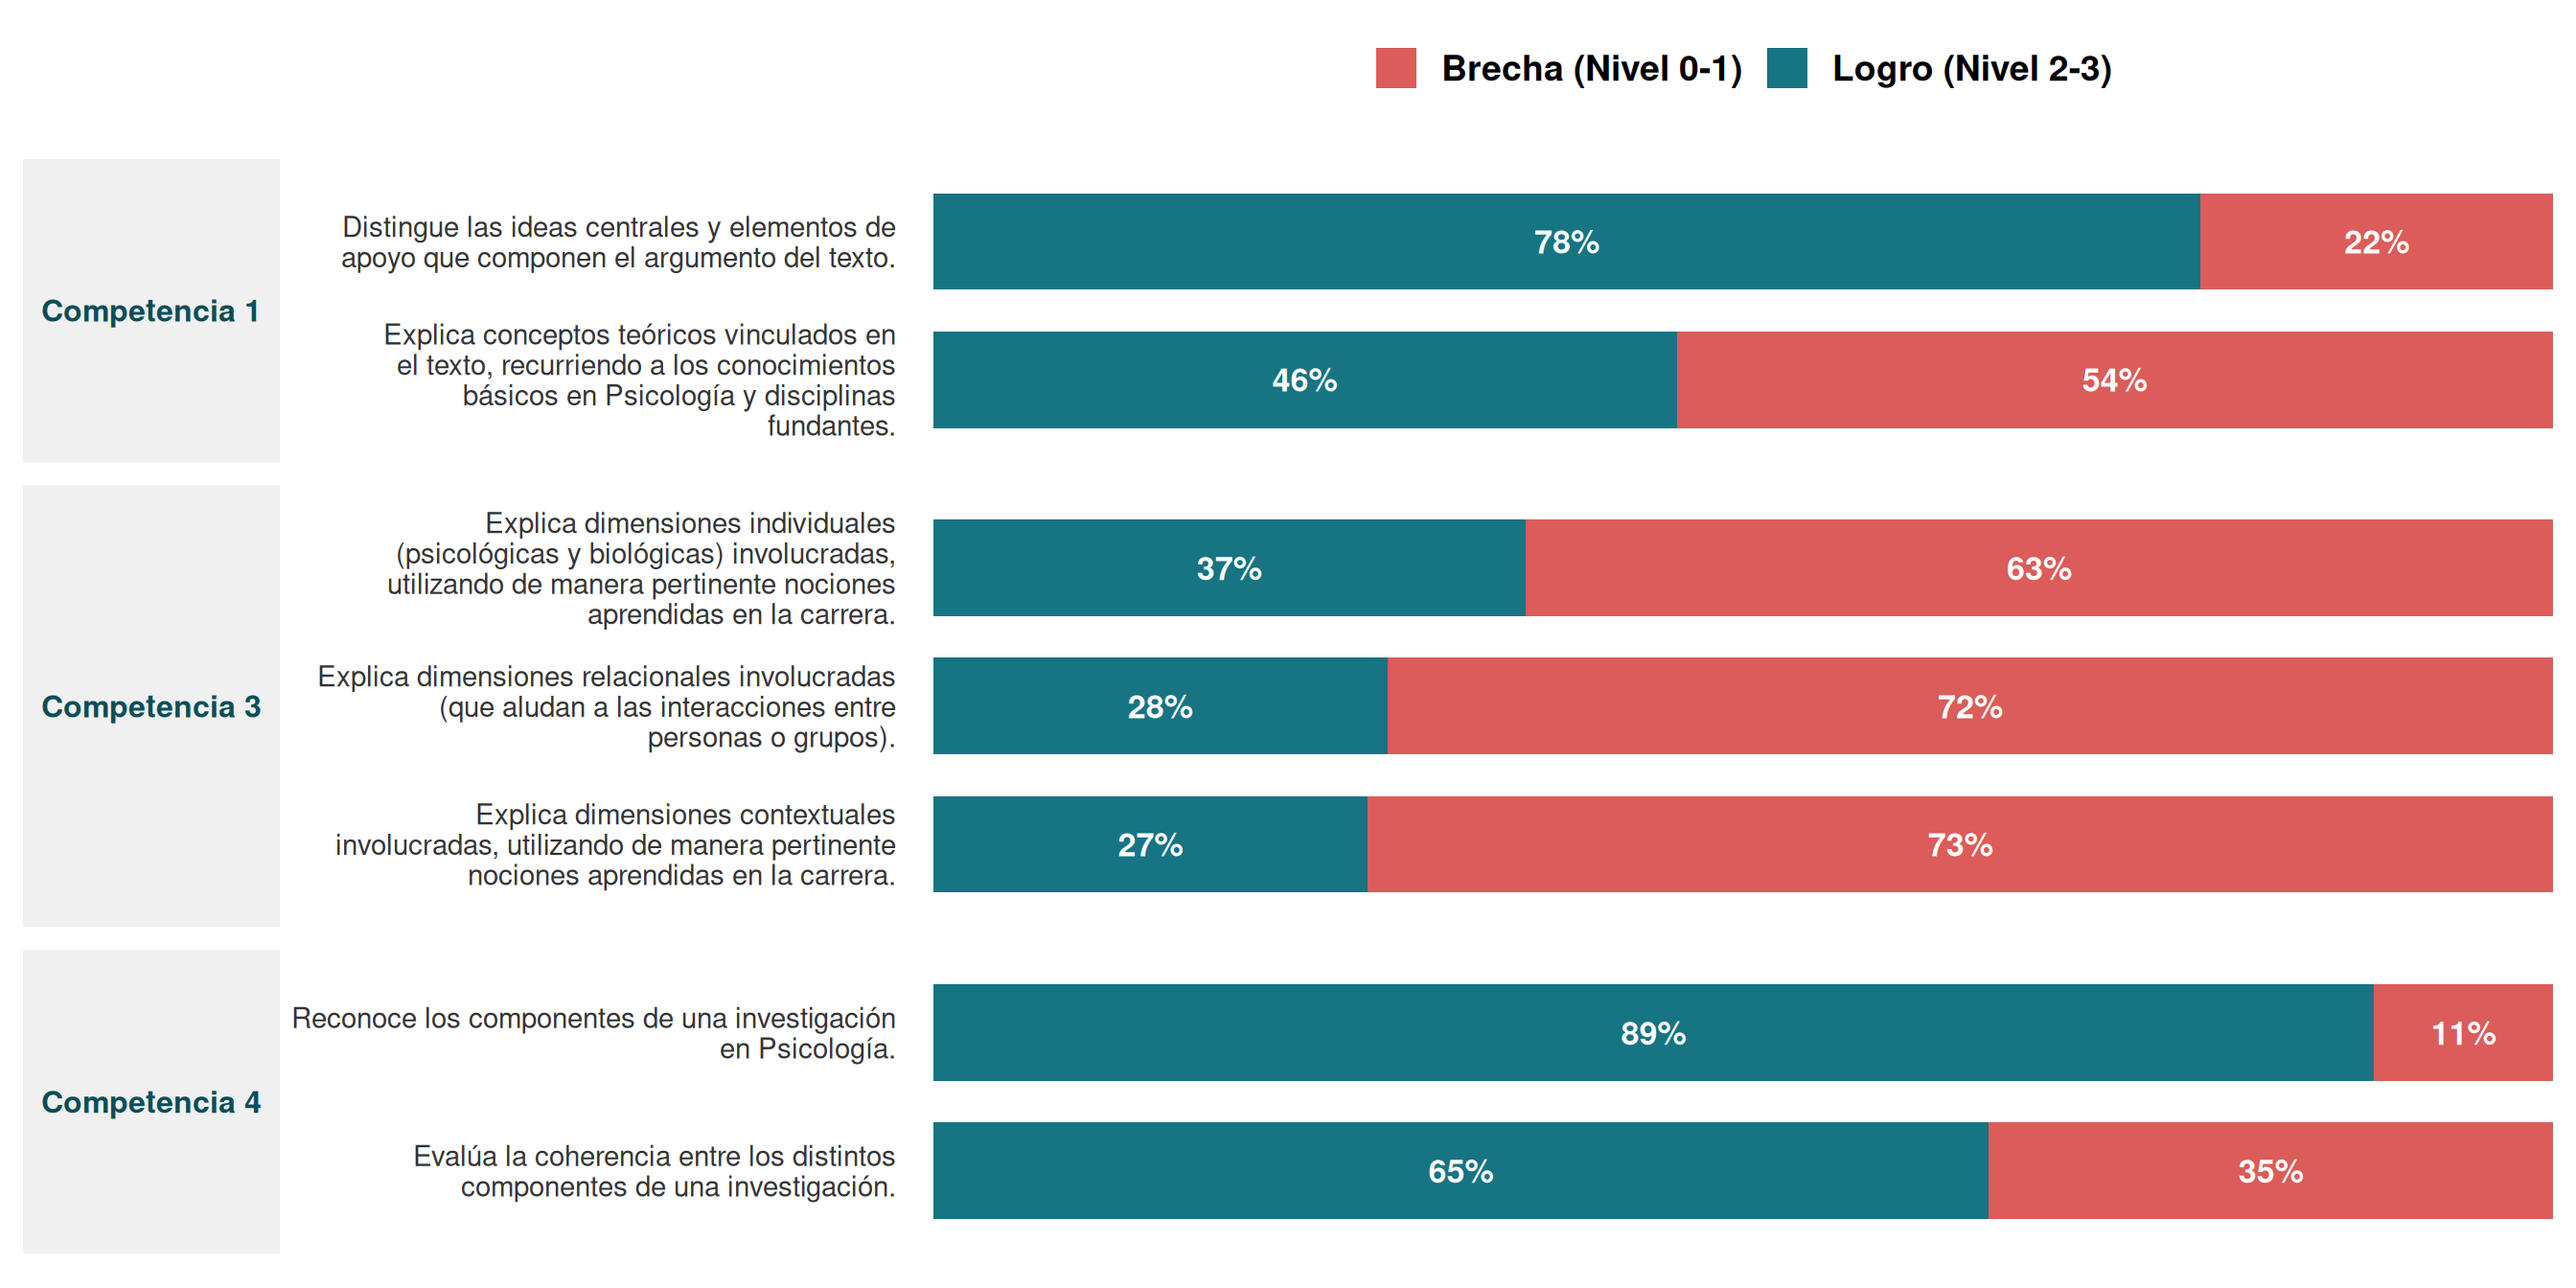
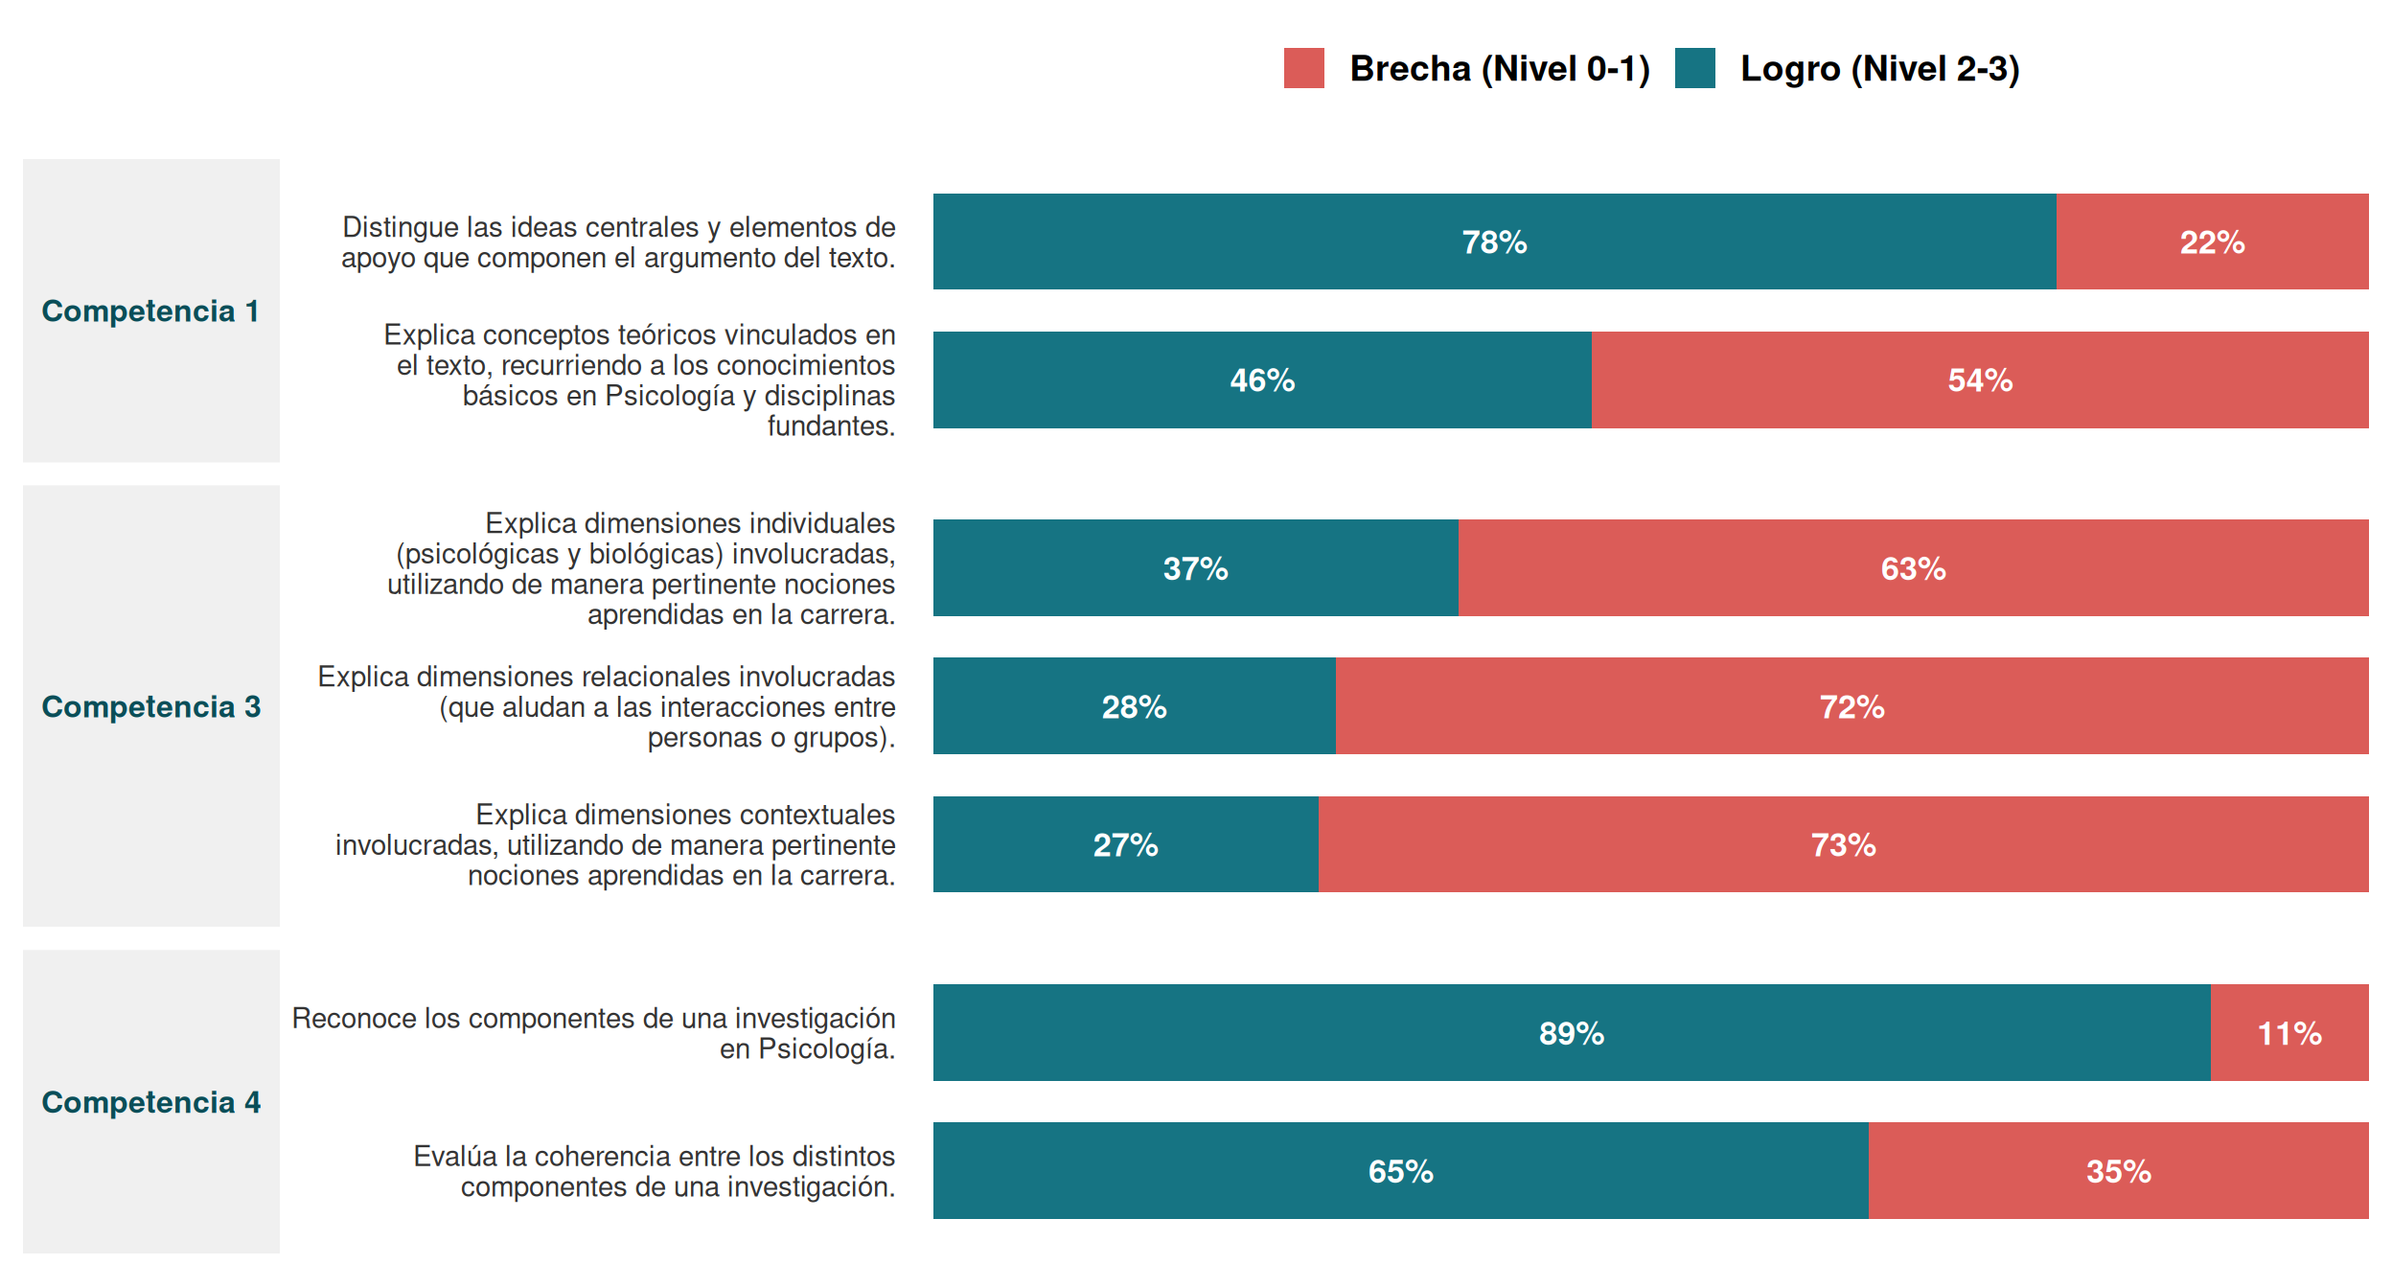
update

diff --git a/output/2025/01_slides_example.html b/output/2025/01_slides_example.html
@@ -641,12 +641,16 @@ Indicadores Clave
 </div>
 </div></div>
 </section>
-<section id="balance-general-brecha-vs-logro" class="slide level2 center middle" data-background-color="#0a4e58" color="white">
-<h2>Balance General: Brecha vs Logro</h2>
+<section id="balance-general" class="slide level2 center middle" data-background-color="#0a4e58" color="white">
+<h2>Balance General</h2>
 </section>
 <section id="balance-general-por-competencia" class="slide level2">
 <h2>Balance General por Competencia</h2>
-<p><img data-src="01_slides_example_files/figure-revealjs/plot_divergente-1.png" width="1344"></p>
+<p><img data-src="01_slides_example_files/figure-revealjs/plot_divergente-1.png" width="1248"></p>
+</section>
+<section id="mapa-de-calor-distribución-del-curso" class="slide level2">
+<h2>Mapa de Calor: Distribución del Curso</h2>
+<p><img data-src="01_slides_example_files/figure-revealjs/plot_heatmap-1.png" width="1632"></p>
 <script>
   window.addEventListener("load", (event) => {
     function checkLogo() {
